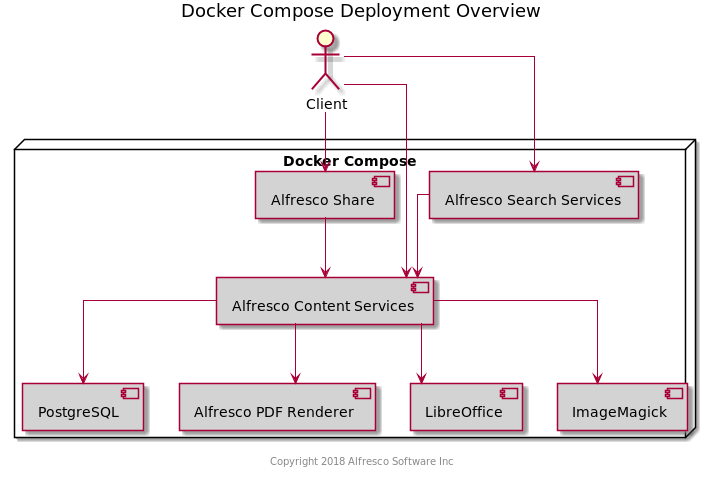
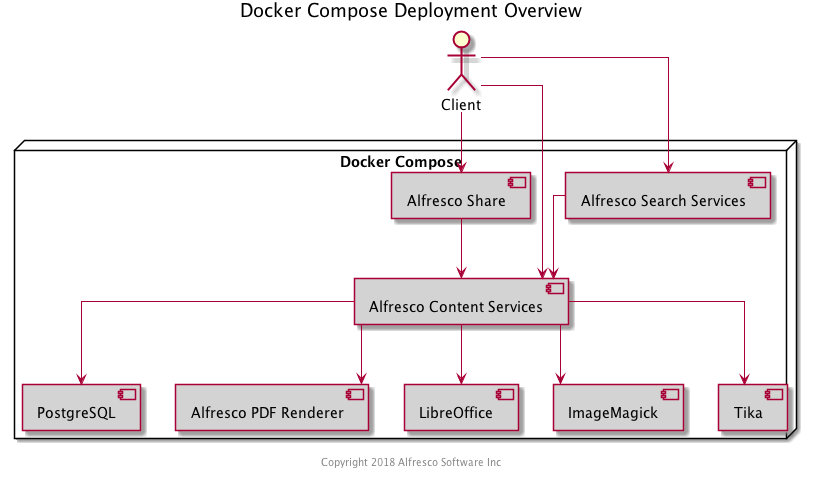
REPO-3425 tika docker transformer (#31)
REPO-3425 Addition of Tika transformer (available in acs-pacakaging 6.1-EA1) to helm chart

Changed region(s): [[0.0, 0.2642, 0.9832, 0.9979], [0.2458, 0.0, 0.8296, 0.2348]]

diff --git a/docs/customising-deployment.md b/docs/customising-deployment.md
@@ -6,9 +6,10 @@ Alfresco Content Services is composed of the following images:
 2. alfresco-pdf-renderer | [tags](https://hub.docker.com/r/alfresco/alfresco-pdf-renderer/tags/)
 3. alfresco-imagemagick | [tags](https://hub.docker.com/r/alfresco/alfresco-imagemagick/tags/)
 4. alfresco-libreoffice | [tags](https://hub.docker.com/r/alfresco/alfresco-libreoffice/tags/)
-5. alfresco-share | [tags](https://hub.docker.com/r/alfresco/alfresco-share/tags/)
-6. alfresco-search-services | [tags](https://hub.docker.com/r/alfresco/alfresco-search-services/tags/)
-7. postgres | [tags](https://hub.docker.com/r/library/postgres/tags/)
+5. alfresco-tika | [tags](https://hub.docker.com/r/alfresco/alfresco-taka/tags/)
+6. alfresco-share | [tags](https://hub.docker.com/r/alfresco/alfresco-share/tags/)
+7. alfresco-search-services | [tags](https://hub.docker.com/r/alfresco/alfresco-search-services/tags/)
+8. postgres | [tags](https://hub.docker.com/r/library/postgres/tags/)
 
 For Docker Compose usage, edit the image tags in the [docker-compose.yml](https://github.com/Alfresco/acs-deployment/blob/master/docker-compose/docker-compose.yml) file.  
 
